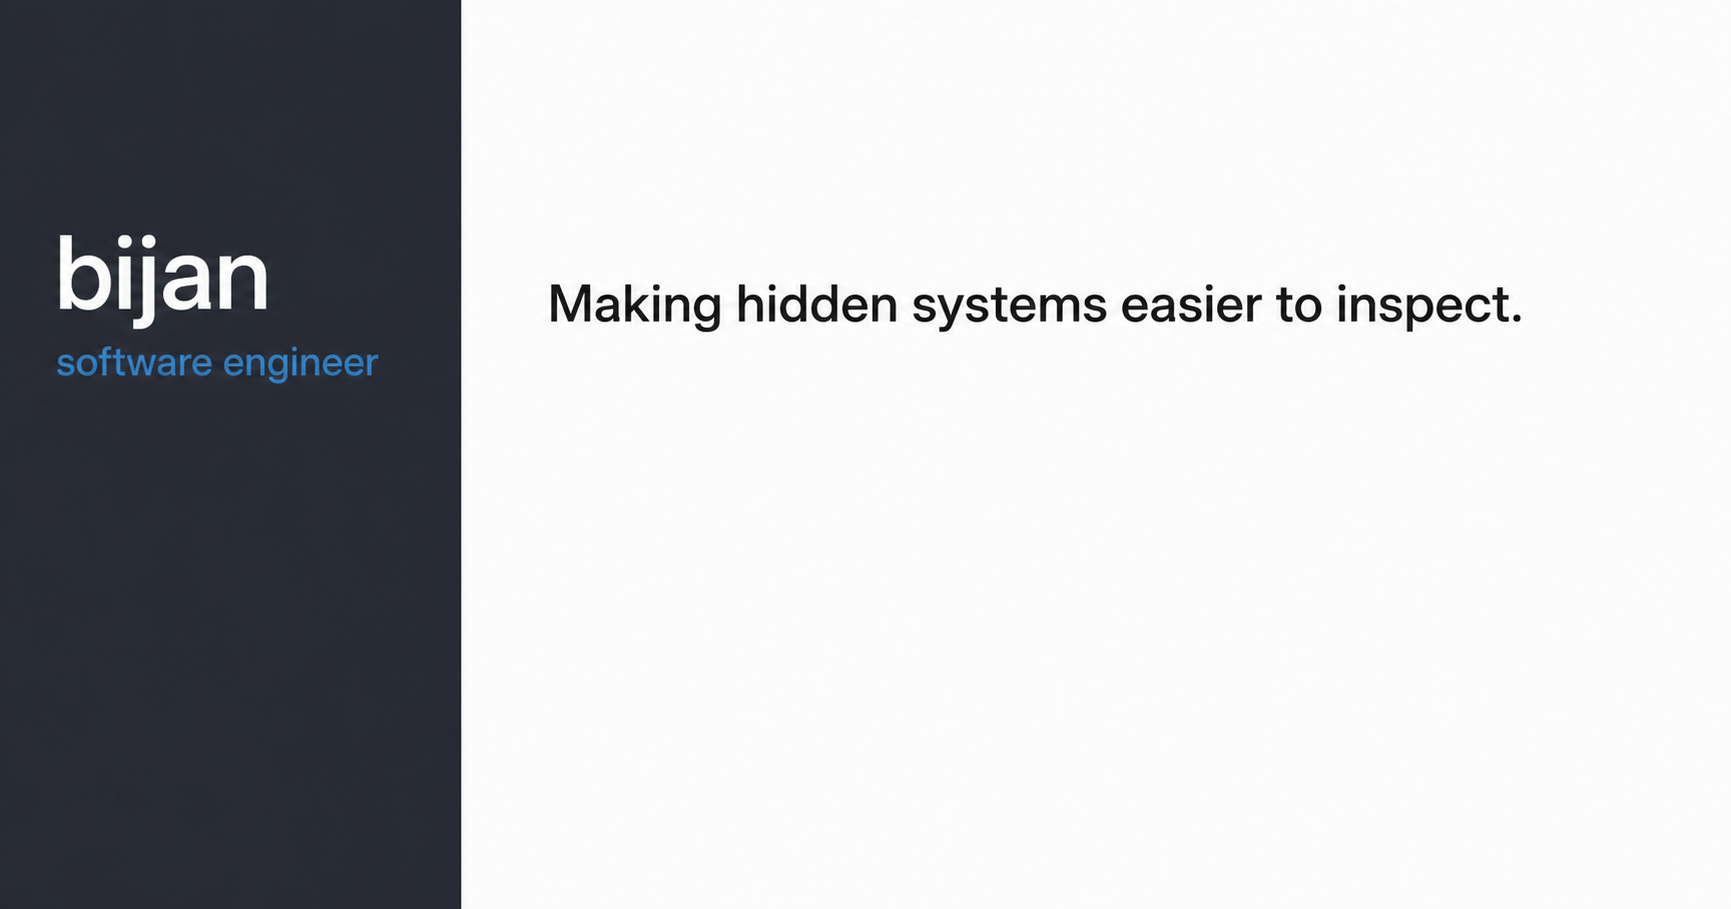
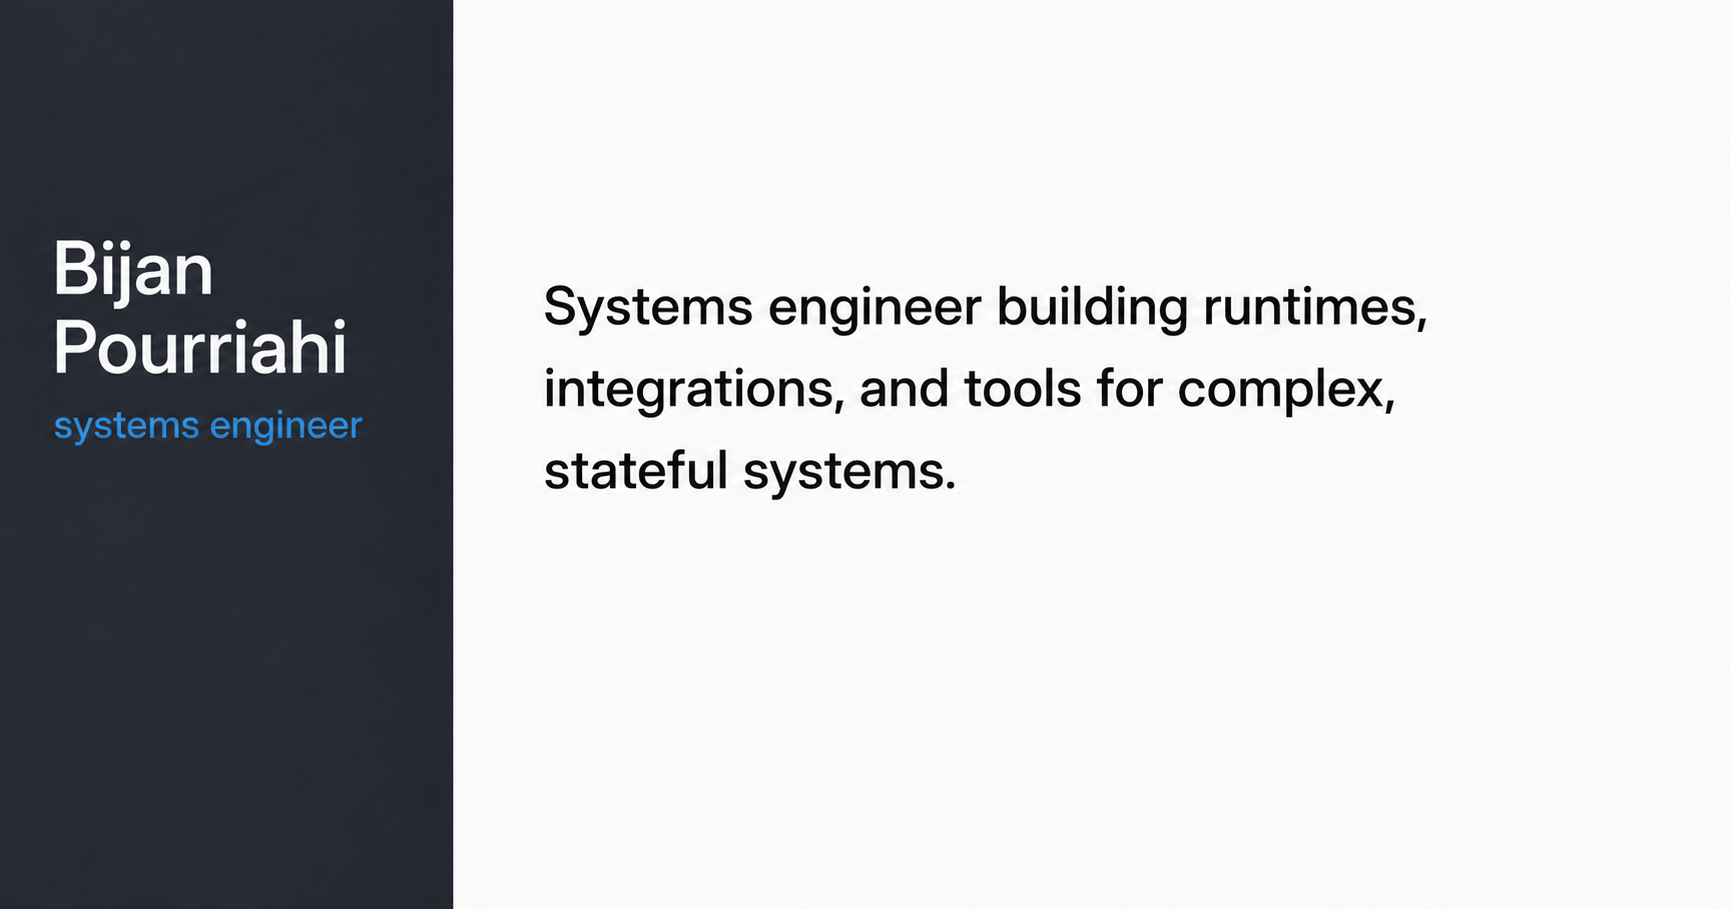
refine portfolio positioning

diff --git a/app/layout.tsx b/app/layout.tsx
@@ -4,11 +4,11 @@ import "./globals.css";
 export const metadata: Metadata = {
   metadataBase: new URL("https://beejmaxx.github.io"),
   title: {
-    default: "bijan",
-    template: "%s — bijan",
+    default: "Bijan Pourriahi",
+    template: "%s — Bijan Pourriahi",
   },
   description:
-    "Reliable agent infrastructure, developer tooling, stateful execution systems, and technical instruments by Bijan.",
+    "Systems engineer building runtimes, integrations, and tools for complex, stateful systems.",
   alternates: {
     canonical: "/",
   },
@@ -17,17 +17,17 @@ export const metadata: Metadata = {
     shortcut: "/favicon.svg",
   },
   openGraph: {
-    title: "bijan",
-    description: "Reliable systems for agents and operators.",
+    title: "Bijan Pourriahi",
+    description: "Systems engineer building runtimes, integrations, and tools for complex, stateful systems.",
     type: "website",
     url: "https://beejmaxx.github.io",
-    siteName: "bijan",
-    images: [{ url: "/og-v2.png", width: 1731, height: 909, alt: "bijan — making hidden systems easier to inspect" }],
+    siteName: "Bijan Pourriahi",
+    images: [{ url: "/og-v2.png", width: 1731, height: 909, alt: "Bijan Pourriahi — systems engineer building runtimes, integrations, and tools for complex, stateful systems" }],
   },
   twitter: {
     card: "summary_large_image",
-    title: "bijan",
-    description: "Reliable systems for agents and operators.",
+    title: "Bijan Pourriahi",
+    description: "Systems engineer building runtimes, integrations, and tools for complex, stateful systems.",
     images: ["/og-v2.png"],
   },
 };
@@ -35,7 +35,7 @@ export const metadata: Metadata = {
 const structuredData = {
   "@context": "https://schema.org",
   "@type": "Person",
-  name: "bijan",
+  name: "Bijan Pourriahi",
   url: "https://beejmaxx.github.io",
   sameAs: ["https://github.com/beejmaxx"],
   knowsAbout: ["Rust", "Python", "agent infrastructure", "process supervision", "developer tooling", "stateful systems"],

diff --git a/app/page.tsx b/app/page.tsx
@@ -22,8 +22,8 @@ export default function HomePage() {
     <SiteShell current="home">
       <main id="main" className={styles.main}>
         <section className={styles.hero}>
-          <h1>Reliable systems for agents and operators.</h1>
-          <p>I’m Bijan, a systems engineer focused on agent infrastructure, developer tooling, and stateful execution systems.</p>
+          <h1>Bijan Pourriahi</h1>
+          <p>Systems engineer building runtimes, integrations, and tools for complex, stateful systems.</p>
           <p>I build around unreliable external processes: durable state, cancellation and recovery, protocol boundaries, evidence capture, and operator-facing controls. I work mainly in Rust, Python, and TypeScript.</p>
           <nav className={styles.inlineLinks}><a href="/resume.pdf">Résumé</a><a href="https://github.com/beejmaxx">GitHub</a></nav>
         </section>

diff --git a/app/about/page.tsx b/app/about/page.tsx
@@ -2,7 +2,7 @@ import type { Metadata } from "next";
 import { SiteShell } from "@/components/SiteShell";
 import styles from "./about.module.css";
 
-export const metadata: Metadata = { title:"about",description:"About bijan and the recurring ideas behind the work.",alternates:{canonical:"/about"},openGraph:{title:"about — bijan",description:"Software engineer making hidden systems inspectable.",url:"/about"} };
+export const metadata: Metadata = { title:"about",description:"About Bijan Pourriahi and his work on runtimes, integrations, and tools for complex, stateful systems.",alternates:{canonical:"/about"},openGraph:{title:"about — Bijan Pourriahi",description:"Systems engineer building runtimes, integrations, and tools for complex, stateful systems.",url:"/about"} };
 
 const timeline = [
   ["2010", "small programs, Ruby, Rails, and learning in public"],
